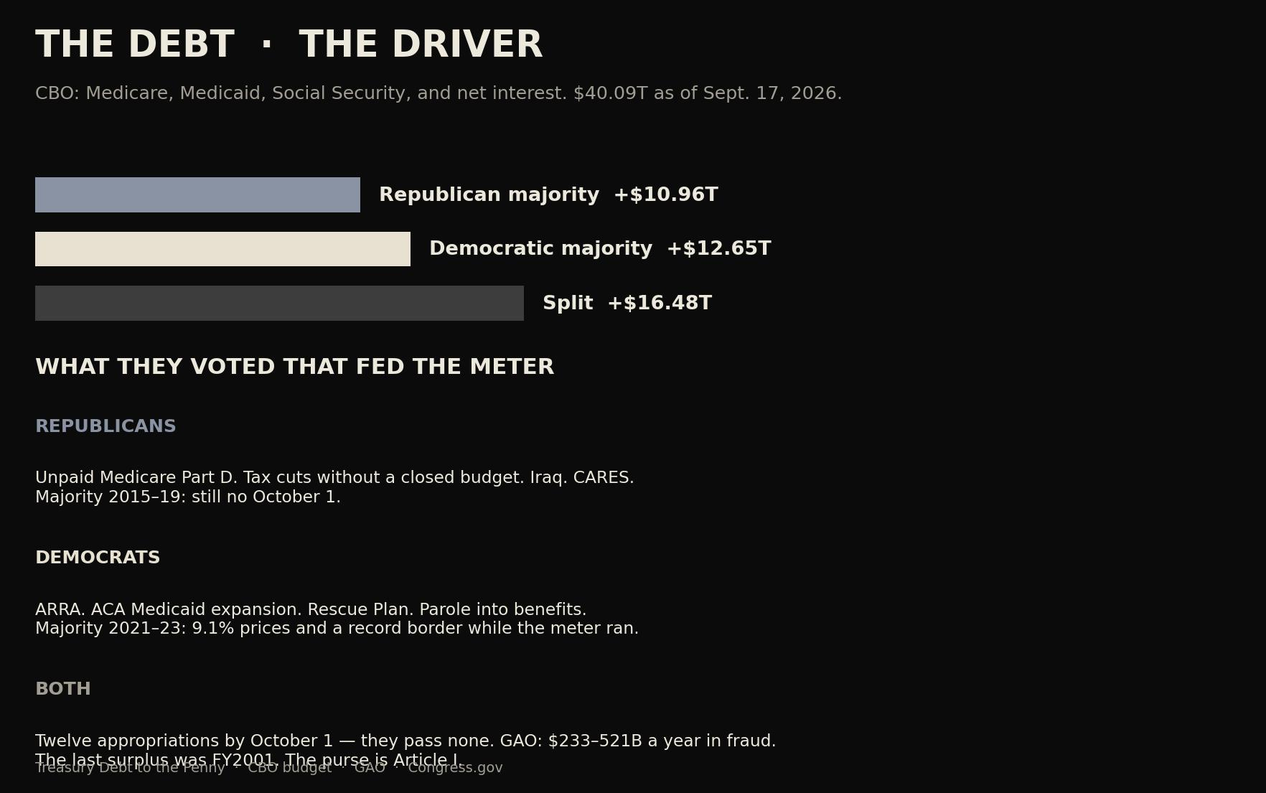
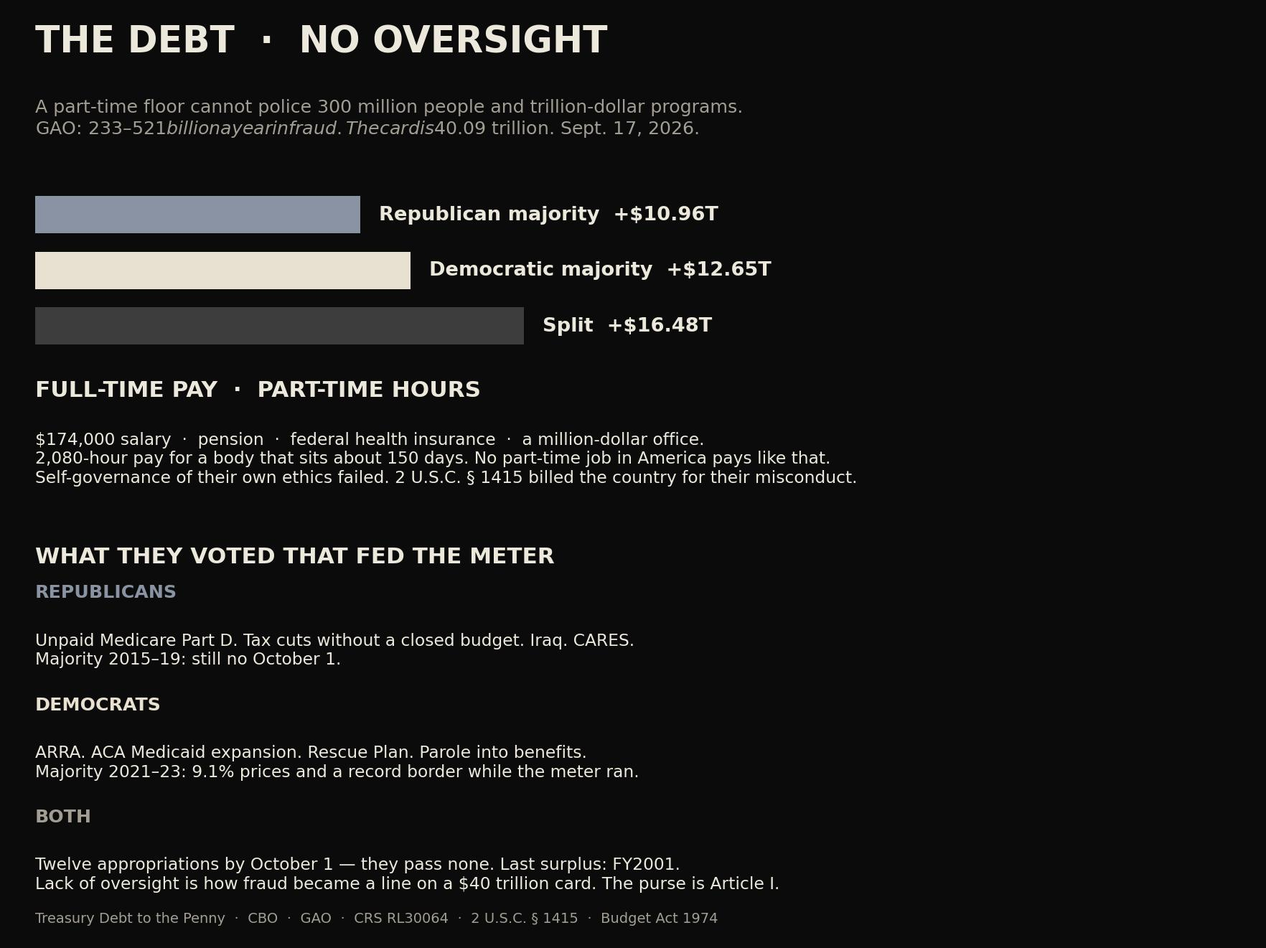
Debt chart: no oversight, GAO fraud, 2080-hour pay for a 150-day floor.

diff --git a/UPLOAD-TO-NAMECHEAP/scorecard.html b/UPLOAD-TO-NAMECHEAP/scorecard.html
@@ -92,7 +92,7 @@ footer .f{max-width:72rem;margin:0 auto;display:flex;justify-content:space-betwe
 <div class="panel" id="gop-charts">
 <p class="btns"><a class="btn" href="#gop-charts">Charts</a><a class="btn out" href="#gop-read">Read</a></p>
 
-<figure><p class="kicker">Policy — success and failure</p><img src="/images/chart-policy.jpg" alt="Policy — success and failure"/><figcaption style="color:#a39e93;font-size:.85rem"><a href="https://www.congress.gov/">Congress.gov</a> · <a href="https://www.bls.gov/news.release/archives/cpi_07132022.htm">BLS — June 2022</a></figcaption></figure><figure><p class="kicker">The debt — the driver, and what each party voted</p><img src="/images/chart-debt-why.jpg" alt="The debt — the driver, and what each party voted"/><figcaption style="color:#a39e93;font-size:.85rem"><a href="https://www.cbo.gov/topics/budget">CBO — budget</a> · <a href="https://fiscaldata.treasury.gov/datasets/debt-to-the-penny/">Treasury — Debt to the Penny</a> · <a href="https://www.gao.gov/products/gao-25-107746">GAO fraud</a></figcaption></figure><figure><p class="kicker">The Oval — encounters and the highest price spike (CPI)</p><img src="/images/chart-oval.jpg" alt="The Oval — encounters and the highest price spike (CPI)"/><figcaption style="color:#a39e93;font-size:.85rem"><a href="https://www.cbp.gov/newsroom/stats/cbp-enforcement-statistics">CBP — enforcement statistics</a> · <a href="https://www.bls.gov/cpi/">BLS — CPI</a> · <a href="https://www.eia.gov/petroleum/gasdiesel/">EIA — the gallon</a></figcaption></figure>
+<figure><p class="kicker">Policy — success and failure</p><img src="/images/chart-policy.jpg" alt="Policy — success and failure"/><figcaption style="color:#a39e93;font-size:.85rem"><a href="https://www.congress.gov/">Congress.gov</a> · <a href="https://www.bls.gov/news.release/archives/cpi_07132022.htm">BLS — June 2022</a></figcaption></figure><figure><p class="kicker">The debt — no oversight, $40 trillion, full-time pay for part-time hours</p><img src="/images/chart-debt-why.jpg" alt="The debt — no oversight, $40 trillion, full-time pay for part-time hours"/><figcaption style="color:#a39e93;font-size:.85rem"><a href="https://www.cbo.gov/topics/budget">CBO — budget</a> · <a href="https://fiscaldata.treasury.gov/datasets/debt-to-the-penny/">Treasury — Debt to the Penny</a> · <a href="https://www.gao.gov/products/gao-25-107746">GAO fraud</a></figcaption></figure><figure><p class="kicker">The Oval — encounters and the highest price spike (CPI)</p><img src="/images/chart-oval.jpg" alt="The Oval — encounters and the highest price spike (CPI)"/><figcaption style="color:#a39e93;font-size:.85rem"><a href="https://www.cbp.gov/newsroom/stats/cbp-enforcement-statistics">CBP — enforcement statistics</a> · <a href="https://www.bls.gov/cpi/">BLS — CPI</a> · <a href="https://www.eia.gov/petroleum/gasdiesel/">EIA — the gallon</a></figcaption></figure>
 </div>
 <div class="panel" id="dem-charts">
 <p class="btns"><a class="btn" href="#dem-charts">Charts</a><a class="btn out" href="#dem-read">Read</a></p>
@@ -102,7 +102,7 @@ footer .f{max-width:72rem;margin:0 auto;display:flex;justify-content:space-betwe
 <div class="panel" id="split-charts">
 <p class="btns"><a class="btn" href="#split-charts">Charts</a><a class="btn out" href="#split-read">Read</a></p>
 
-<figure><p class="kicker">The debt — the driver, and what each party voted</p><img src="/images/chart-debt-why.jpg" alt="The debt — the driver, and what each party voted"/><figcaption style="color:#a39e93;font-size:.85rem"><a href="https://www.cbo.gov/topics/budget">CBO — budget</a> · <a href="https://fiscaldata.treasury.gov/datasets/debt-to-the-penny/">Treasury — Debt to the Penny</a> · <a href="https://www.gao.gov/products/gao-25-107746">GAO fraud</a></figcaption></figure><figure><p class="kicker">The fire is Congress. The blame game is politics.</p><img src="/images/chart-blame.jpg" alt="The fire is Congress. The blame game is politics."/><figcaption style="color:#a39e93;font-size:.85rem"><a href="https://constitution.congress.gov/constitution/article-1/">Article I</a> · <a href="https://www.law.cornell.edu/uscode/text/5/3331">5 U.S.C. § 3331</a> · <a href="https://www.law.cornell.edu/uscode/text/2/1415">2 U.S.C. § 1415</a> · <a href="https://www.cbo.gov/data/budget-economic-data">CBO</a></figcaption></figure>
+<figure><p class="kicker">The debt — no oversight, $40 trillion, full-time pay for part-time hours</p><img src="/images/chart-debt-why.jpg" alt="The debt — no oversight, $40 trillion, full-time pay for part-time hours"/><figcaption style="color:#a39e93;font-size:.85rem"><a href="https://www.cbo.gov/topics/budget">CBO — budget</a> · <a href="https://fiscaldata.treasury.gov/datasets/debt-to-the-penny/">Treasury — Debt to the Penny</a> · <a href="https://www.gao.gov/products/gao-25-107746">GAO fraud</a></figcaption></figure><figure><p class="kicker">The fire is Congress. The blame game is politics.</p><img src="/images/chart-blame.jpg" alt="The fire is Congress. The blame game is politics."/><figcaption style="color:#a39e93;font-size:.85rem"><a href="https://constitution.congress.gov/constitution/article-1/">Article I</a> · <a href="https://www.law.cornell.edu/uscode/text/5/3331">5 U.S.C. § 3331</a> · <a href="https://www.law.cornell.edu/uscode/text/2/1415">2 U.S.C. § 1415</a> · <a href="https://www.cbo.gov/data/budget-economic-data">CBO</a></figcaption></figure>
 </div>
 <div class="panel" id="oval-charts">
 <p class="btns"><a class="btn" href="#oval-charts">Charts</a><a class="btn out" href="#oval-read">Read</a></p>
@@ -112,7 +112,7 @@ footer .f{max-width:72rem;margin:0 auto;display:flex;justify-content:space-betwe
 <div class="panel" id="compare-charts">
 <p class="btns"><a class="btn" href="#compare-charts">Charts</a><a class="btn out" href="#compare-read">Read</a></p>
 
-<figure><p class="kicker">The Oval — encounters and the highest price spike (CPI)</p><img src="/images/chart-oval.jpg" alt="The Oval — encounters and the highest price spike (CPI)"/><figcaption style="color:#a39e93;font-size:.85rem"><a href="https://www.cbp.gov/newsroom/stats/cbp-enforcement-statistics">CBP — enforcement statistics</a> · <a href="https://www.bls.gov/cpi/">BLS — CPI</a> · <a href="https://www.eia.gov/petroleum/gasdiesel/">EIA — the gallon</a></figcaption></figure><figure><p class="kicker">Policy — success and failure</p><img src="/images/chart-policy.jpg" alt="Policy — success and failure"/><figcaption style="color:#a39e93;font-size:.85rem"><a href="https://www.congress.gov/">Congress.gov</a> · <a href="https://www.bls.gov/news.release/archives/cpi_07132022.htm">BLS — June 2022</a></figcaption></figure><figure><p class="kicker">The debt — the driver, and what each party voted</p><img src="/images/chart-debt-why.jpg" alt="The debt — the driver, and what each party voted"/><figcaption style="color:#a39e93;font-size:.85rem"><a href="https://www.cbo.gov/topics/budget">CBO — budget</a> · <a href="https://fiscaldata.treasury.gov/datasets/debt-to-the-penny/">Treasury — Debt to the Penny</a> · <a href="https://www.gao.gov/products/gao-25-107746">GAO fraud</a></figcaption></figure><figure><p class="kicker">The invasion bill — taxpayer cost and the eligibility doors</p><img src="/images/chart-aliens.jpg" alt="The invasion bill — taxpayer cost and the eligibility doors"/><figcaption style="color:#a39e93;font-size:.85rem"><a href="https://www.cbp.gov/newsroom/stats/nationwide-encounters">CBP nationwide</a> · <a href="https://www.cbo.gov/publication/61256">CBO 61256</a> · <a href="https://www.cbo.gov/publication/60805">CBO 60805</a> · <a href="https://www.law.cornell.edu/uscode/text/8/1611">8 U.S.C. § 1611</a></figcaption></figure><figure><p class="kicker">The open border — by administration</p><img src="/images/chart-border.jpg" alt="The open border — by administration"/><figcaption style="color:#a39e93;font-size:.85rem"><a href="https://www.cbp.gov/newsroom/stats/southwest-land-border-encounters">CBP — southwest encounters</a> · <a href="https://www.cbo.gov/publication/61256">CBO — 2023 state and local cost</a></figcaption></figure><figure><p class="kicker">Actual inflation — who held Congress</p><img src="/images/chart-inflation-party.jpg" alt="Actual inflation — who held Congress"/><figcaption style="color:#a39e93;font-size:.85rem"><a href="https://www.bls.gov/cpi/">BLS CPI-U</a> · <a href="https://www.bls.gov/news.release/archives/cpi_07132022.htm">9.1% — June 2022</a> · <a href="https://www.bls.gov/news.release/cpi.nr0.htm">BLS live — August 2026, 3.4%</a> · <a href="https://fred.stlouisfed.org/graph/?id=CPIAUCSL&units=pc1">FRED — 12-month CPI</a></figcaption></figure><figure><p class="kicker">Crime — murder rate by administration</p><img src="/images/chart-crime.jpg" alt="Crime — murder rate by administration"/><figcaption style="color:#a39e93;font-size:.85rem"><a href="https://www.fbi.gov/news/stories/violent-crime-falls-at-historic-rate-new-fbi-data-show">FBI — violent crime 2025</a> · <a href="https://bjs.ojp.gov/document/ckle24.pdf">BJS — Crime Known to Law Enforcement, 2024</a></figcaption></figure><figure><p class="kicker">The gallon — four administrations</p><img src="/images/chart-pump-admins.jpg" alt="The gallon — four administrations"/><figcaption style="color:#a39e93;font-size:.85rem"><a href="https://www.eia.gov/petroleum/gasdiesel/">EIA</a> · <a href="https://fred.stlouisfed.org/series/GASREGW">FRED GASREGW</a></figcaption></figure>
+<figure><p class="kicker">The Oval — encounters and the highest price spike (CPI)</p><img src="/images/chart-oval.jpg" alt="The Oval — encounters and the highest price spike (CPI)"/><figcaption style="color:#a39e93;font-size:.85rem"><a href="https://www.cbp.gov/newsroom/stats/cbp-enforcement-statistics">CBP — enforcement statistics</a> · <a href="https://www.bls.gov/cpi/">BLS — CPI</a> · <a href="https://www.eia.gov/petroleum/gasdiesel/">EIA — the gallon</a></figcaption></figure><figure><p class="kicker">Policy — success and failure</p><img src="/images/chart-policy.jpg" alt="Policy — success and failure"/><figcaption style="color:#a39e93;font-size:.85rem"><a href="https://www.congress.gov/">Congress.gov</a> · <a href="https://www.bls.gov/news.release/archives/cpi_07132022.htm">BLS — June 2022</a></figcaption></figure><figure><p class="kicker">The debt — no oversight, $40 trillion, full-time pay for part-time hours</p><img src="/images/chart-debt-why.jpg" alt="The debt — no oversight, $40 trillion, full-time pay for part-time hours"/><figcaption style="color:#a39e93;font-size:.85rem"><a href="https://www.cbo.gov/topics/budget">CBO — budget</a> · <a href="https://fiscaldata.treasury.gov/datasets/debt-to-the-penny/">Treasury — Debt to the Penny</a> · <a href="https://www.gao.gov/products/gao-25-107746">GAO fraud</a></figcaption></figure><figure><p class="kicker">The invasion bill — taxpayer cost and the eligibility doors</p><img src="/images/chart-aliens.jpg" alt="The invasion bill — taxpayer cost and the eligibility doors"/><figcaption style="color:#a39e93;font-size:.85rem"><a href="https://www.cbp.gov/newsroom/stats/nationwide-encounters">CBP nationwide</a> · <a href="https://www.cbo.gov/publication/61256">CBO 61256</a> · <a href="https://www.cbo.gov/publication/60805">CBO 60805</a> · <a href="https://www.law.cornell.edu/uscode/text/8/1611">8 U.S.C. § 1611</a></figcaption></figure><figure><p class="kicker">The open border — by administration</p><img src="/images/chart-border.jpg" alt="The open border — by administration"/><figcaption style="color:#a39e93;font-size:.85rem"><a href="https://www.cbp.gov/newsroom/stats/southwest-land-border-encounters">CBP — southwest encounters</a> · <a href="https://www.cbo.gov/publication/61256">CBO — 2023 state and local cost</a></figcaption></figure><figure><p class="kicker">Actual inflation — who held Congress</p><img src="/images/chart-inflation-party.jpg" alt="Actual inflation — who held Congress"/><figcaption style="color:#a39e93;font-size:.85rem"><a href="https://www.bls.gov/cpi/">BLS CPI-U</a> · <a href="https://www.bls.gov/news.release/archives/cpi_07132022.htm">9.1% — June 2022</a> · <a href="https://www.bls.gov/news.release/cpi.nr0.htm">BLS live — August 2026, 3.4%</a> · <a href="https://fred.stlouisfed.org/graph/?id=CPIAUCSL&units=pc1">FRED — 12-month CPI</a></figcaption></figure><figure><p class="kicker">Crime — murder rate by administration</p><img src="/images/chart-crime.jpg" alt="Crime — murder rate by administration"/><figcaption style="color:#a39e93;font-size:.85rem"><a href="https://www.fbi.gov/news/stories/violent-crime-falls-at-historic-rate-new-fbi-data-show">FBI — violent crime 2025</a> · <a href="https://bjs.ojp.gov/document/ckle24.pdf">BJS — Crime Known to Law Enforcement, 2024</a></figcaption></figure><figure><p class="kicker">The gallon — four administrations</p><img src="/images/chart-pump-admins.jpg" alt="The gallon — four administrations"/><figcaption style="color:#a39e93;font-size:.85rem"><a href="https://www.eia.gov/petroleum/gasdiesel/">EIA</a> · <a href="https://fred.stlouisfed.org/series/GASREGW">FRED GASREGW</a></figcaption></figure>
 </div>
 <div class="panel" id="gop-read">
 <p class="btns"><a class="btn out" href="#gop-charts">Charts</a><a class="btn" href="#gop-read">Read</a></p>
@@ -184,6 +184,13 @@ footer .f{max-width:72rem;margin:0 auto;display:flex;justify-content:space-betwe
 <div class="grid"><a class="card" href="https://www.congress.gov/bill/115th-congress/house-bill/1" style="padding:1.2rem"><h3>Republican majority — House and Senate</h3><p>1995–2001 · 2003–07 · 2015–19 · 2025–now</p><p>They could pass a spending bill without Democrats.</p><p>Tax cuts. Iraq. Unpaid drug benefit. Border down this term. Debt still up.</p></a><a class="card" href="https://www.congress.gov/bill/111th-congress/house-bill/3590" style="padding:1.2rem"><h3>Democratic majority — House and Senate</h3><p>1993–95 · 2007–11 · 2021–23</p><p>They could pass a spending bill without Republicans.</p><p>Raised taxes. Passed ObamaCare. Prices hit 9.1% in 2022. Record border crossings. The debt still went up.</p></a><a class="card" href="https://fiscaldata.treasury.gov/datasets/debt-to-the-penny/" style="padding:1.2rem"><h3>They split — one house each</h3><p>Most other years. Nixon. Bush 41. 2011–15. COVID. 2023–25.</p><p>Neither party could spend alone. They still spent.</p><p>A Republican president with a Democratic Congress is not an excuse. Nixon: Republican in the White House, Democrats ran Congress, the debt still rose. The $40 trillion is both of them.</p></a></div>
 <div class="grid"><a class="card" href="https://fiscaldata.treasury.gov/datasets/historical-debt-outstanding/" style="padding:1.2rem"><p class="kicker">Republican majority — House and Senate</p><h3>+$10.96 trillion</h3><div style="height:10px;background:#141414;margin-top:.8rem"><div style="height:10px;width:27%;background:#e8e0d0"></div></div><p>27% of the $40.09T</p><p>1861–75 · 1881–83 · 1889–91 · 1895–1911 · 1919–31 · 1947–49 · 1953–55 · 1995–2001 · 2003–07 · 2015–19 · 2025–now</p></a><a class="card" href="https://fiscaldata.treasury.gov/datasets/historical-debt-outstanding/" style="padding:1.2rem"><p class="kicker">Democratic majority — House and Senate</p><h3>+$12.65 trillion</h3><div style="height:10px;background:#141414;margin-top:.8rem"><div style="height:10px;width:32%;background:#e8e0d0"></div></div><p>32% of the $40.09T</p><p>1857–59 · 1875–81 · 1893–95 · 1913–19 · 1933–47 · 1949–53 · 1955–81 · 1987–95 · 2007–11 · 2021–23</p></a><a class="card" href="https://fiscaldata.treasury.gov/datasets/historical-debt-outstanding/" style="padding:1.2rem"><p class="kicker">Split — one chamber each</p><h3>+$16.48 trillion</h3><div style="height:10px;background:#141414;margin-top:.8rem"><div style="height:10px;width:41%;background:#e8e0d0"></div></div><p>41% of the $40.09T</p><p>Every other year since 1857 — one house each</p></a></div>
 <p>September 17, 2026: $40.09 trillion. $10.96 + $12.65 + $16.48 = $40.09. Before 1857 the two parties did not yet run the modern Congress. The debt then was $29 million.</p>
+<figure><img src="/images/chart-debt-why.jpg" alt="The debt — no oversight"/></figure>
+<p class="kicker">No oversight. A $40 trillion card. Full-time pay for a part-time floor.</p>
+<p>CBO’s long-term outlook: the meter is Medicare, Medicaid, Social Security, and net interest. Wars and tax bills are real. They are not the largest line. Both parties voted the expansions. Neither locked the door. Neither passes twelve appropriations by October 1. GAO: $233–521 billion a year in fraud and improper payments. That is what a part-time schedule does to a country of more than 300 million people. Lack of oversight is how fraud became a line on a $40.09 trillion card.</p>
+<p>A rank-and-file member is paid $174,000 a year — CRS RL30064 — plus a pension, Federal Employees Health Benefits, and a million-dollar office allowance. That is 2,080-hour, full-time pay. The House sits on the order of 150 legislative days. No part-time job in America pays like that. Self-governance of their own ethics has failed: 2 U.S.C. § 1415 billed the country for congressional misconduct. Full time, or the perks stop.</p>
+<p>Republicans: Unpaid Medicare Part D. Tax cuts without a closed budget. Iraq. CARES. Majority 2015–19: still no October 1.</p>
+<p>Democrats: ARRA. ACA Medicaid expansion. Rescue Plan. Parole into benefits. Majority 2021–23: 9.1% prices and a record border while the meter ran.</p>
+<p><a href="https://www.congress.gov/crs-product/RL30064">CRS — member pay →</a> · <a href="https://www.law.cornell.edu/uscode/text/2/1415">2 U.S.C. § 1415 →</a> · <a href="https://www.gao.gov/products/gao-25-107746">GAO fraud →</a></p>
 <figure><img src="/images/chart-policy.jpg" alt="Policy — success and failure"/></figure>
 <h2>Obama, first term · 2009–13</h2><p>Democratic majority, House and Senate, January 2009–January 2011. Then a Republican House. Split.</p><p class="kicker">Helped</p><ul><li><a href="https://www.congress.gov/bill/111th-congress/senate-bill/181"><strong>Lilly Ledbetter Fair Pay Act.</strong><br/>S. 181 · 2009</a></li><li><a href="https://www.congress.gov/bill/111th-congress/house-bill/2"><strong>CHIP reauthorized.</strong><br/>H.R. 2 · 2009</a></li></ul><p class="kicker">Hurt</p><ul><li><a href="https://www.congress.gov/bill/111th-congress/house-bill/1"><strong>Stimulus after the crash. The meter jumped.</strong><br/>H.R. 1 · ARRA · 2009</a></li><li><a href="https://www.congress.gov/bill/111th-congress/house-bill/3590"><strong>ObamaCare: new taxes and a mandate, Democratic majority, 2010.</strong><br/>H.R. 3590 · 2010</a></li><li><a href="https://www.bls.gov/news.release/archives/cpi_10192011.htm"><strong>CPI 3.9%, September 2011. Split Congress. Obama Oval.</strong><br/>BLS CPI · September 2011</a></li></ul><h2>Obama, second term · 2013–17</h2><p>Split until January 2015. Republican majority, House and Senate, 2015–17. The Oval was still Obama. The purse was not.</p><p class="kicker">Helped</p><ul><li><a href="https://www.bls.gov/cpi/"><strong>CPI stayed low after 2011. No 9% spike in this term.</strong><br/>BLS CPI</a></li></ul><p class="kicker">Hurt</p><ul><li><a href="https://www.uscis.gov/humanitarian/consideration-of-deferred-action-for-childhood-arrivals-daca"><strong>DACA, June 15, 2012, carried through the second term. A memo. Not a vote.</strong><br/>DHS / USCIS</a></li><li><a href="https://www.cbp.gov/document/stats/us-border-patrol-fiscal-year-southwest-border-sector-apprehensions-fy-1960-fy-2019"><strong>Southwest Border Patrol, eight fiscal years: 3.31 million. FY2014 unaccompanied-child spike sat in this Oval.</strong><br/>CBP · FY1960–2019</a></li><li><a href="https://fiscaldata.treasury.gov/datasets/historical-debt-outstanding/"><strong>Republican majority 2015–17 did not close October 1. Debt still climbed on a Republican purse and a Democratic Oval.</strong><br/>Treasury</a></li></ul>
 <div class="grid"><a class="card" href="https://constitution.congress.gov/constitution/article-1/" style="padding:1rem"><h3 style="padding:0">Article I — the purse</h3></a><a class="card" href="https://constitution.congress.gov/constitution/article-6/" style="padding:1rem"><h3 style="padding:0">Article VI — supremacy</h3></a><a class="card" href="https://www.law.cornell.edu/uscode/text/5/3331" style="padding:1rem"><h3 style="padding:0">The oath — 5 U.S.C. § 3331</h3></a><a class="card" href="https://www.congress.gov/bill/93rd-congress/house-bill/7130" style="padding:1rem"><h3 style="padding:0">Budget Act — twelve bills by October 1</h3></a><a class="card" href="https://www.gao.gov/products/gao-25-107746" style="padding:1rem"><h3 style="padding:0">GAO — fraud $233–521B a year</h3></a><a class="card" href="https://fiscaldata.treasury.gov/datasets/debt-to-the-penny/" style="padding:1rem"><h3 style="padding:0">Treasury — debt to the penny</h3></a><a class="card" href="https://www.law.cornell.edu/uscode/text/8/1324" style="padding:1rem"><h3 style="padding:0">8 U.S.C. § 1324 — harboring</h3></a><a class="card" href="https://www.law.cornell.edu/uscode/text/8/1373" style="padding:1rem"><h3 style="padding:0">8 U.S.C. § 1373 — no gag on ICE</h3></a><a class="card" href="https://www.law.cornell.edu/uscode/text/8/1611" style="padding:1rem"><h3 style="padding:0">8 U.S.C. § 1611 — federal benefits</h3></a><a class="card" href="https://www.law.cornell.edu/uscode/text/2/1415" style="padding:1rem"><h3 style="padding:0">2 U.S.C. § 1415 — they billed you for their misconduct</h3></a><a class="card" href="https://www.law.cornell.edu/uscode/text/18/2383" style="padding:1rem"><h3 style="padding:0">18 U.S.C. § 2383 — insurrection</h3></a></div>

diff --git a/src/lib/scorecard.ts b/src/lib/scorecard.ts
@@ -938,11 +938,14 @@ export const DRIVERS: { k: string; v: string; href: string }[] = [
 
 /** CBO’s long-term file. One chart. Who added, and why the meter runs. */
 export const DEBT_WHY = {
-  k: "What actually drives the $40.09 trillion",
-  v: "CBO’s long-term outlook: the meter is Medicare, Medicaid, Social Security, and net interest. Wars and tax bills are real. They are not the largest line. Both parties voted the expansions. Neither locked the door. Neither passes twelve appropriations by October 1.",
-  href: "https://www.cbo.gov/topics/budget",
+  k: "No oversight. A $40 trillion card. Full-time pay for a part-time floor.",
+  v: "CBO’s long-term outlook: the meter is Medicare, Medicaid, Social Security, and net interest. Wars and tax bills are real. They are not the largest line. Both parties voted the expansions. Neither locked the door. Neither passes twelve appropriations by October 1. GAO: $233–521 billion a year in fraud and improper payments. That is what a part-time schedule does to a country of more than 300 million people. Lack of oversight is how fraud became a line on a $40.09 trillion card.",
+  href: "https://www.gao.gov/products/gao-25-107746",
   gop: "Unpaid Medicare Part D. Tax cuts without a closed budget. Iraq. CARES. Majority 2015–19: still no October 1.",
   dem: "ARRA. ACA Medicaid expansion. Rescue Plan. Parole into benefits. Majority 2021–23: 9.1% prices and a record border while the meter ran.",
+  pay: "A rank-and-file member is paid $174,000 a year — CRS RL30064 — plus a pension, Federal Employees Health Benefits, and a million-dollar office allowance. That is 2,080-hour, full-time pay. The House sits on the order of 150 legislative days. No part-time job in America pays like that. Self-governance of their own ethics has failed: 2 U.S.C. § 1415 billed the country for congressional misconduct. Full time, or the perks stop.",
+  payHref: "https://www.congress.gov/crs-product/RL30064",
+  ethicsHref: "https://www.law.cornell.edu/uscode/text/2/1415",
 };
 
 /** The invasion bill. Official costs. The doors Democrats opened. */
@@ -1110,7 +1113,7 @@ export const CHARTS: {
   },
   {
     src: "/images/chart-debt-why.jpg",
-    title: "The debt — the driver, and what each party voted",
+    title: "The debt — no oversight, $40 trillion, full-time pay for part-time hours",
     sources: [
       { label: "CBO — budget", href: "https://www.cbo.gov/topics/budget" },
       { label: "Treasury — Debt to the Penny", href: "https://fiscaldata.treasury.gov/datasets/debt-to-the-penny/" },

diff --git a/src/components/midterm-scorecard.tsx b/src/components/midterm-scorecard.tsx
@@ -775,11 +775,40 @@ export function MidtermScorecard() {
               />
             </figure>
             <p className="text-base leading-relaxed">{DEBT_WHY.v}</p>
+            <p className="text-sm leading-relaxed">{DEBT_WHY.pay}</p>
             <p className="text-sm leading-relaxed">
               Republicans: {DEBT_WHY.gop}
             </p>
             <p className="text-sm leading-relaxed">
               Democrats: {DEBT_WHY.dem}
+            </p>
+            <p>
+              <a
+                href={DEBT_WHY.payHref}
+                target="_blank"
+                rel="noreferrer"
+                className="font-display text-xs font-semibold tracking-wide text-sage uppercase no-underline hover:text-fg"
+              >
+                CRS — member pay →
+              </a>
+              {" · "}
+              <a
+                href={DEBT_WHY.ethicsHref}
+                target="_blank"
+                rel="noreferrer"
+                className="font-display text-xs font-semibold tracking-wide text-sage uppercase no-underline hover:text-fg"
+              >
+                2 U.S.C. § 1415 →
+              </a>
+              {" · "}
+              <a
+                href={DEBT_WHY.href}
+                target="_blank"
+                rel="noreferrer"
+                className="font-display text-xs font-semibold tracking-wide text-sage uppercase no-underline hover:text-fg"
+              >
+                GAO fraud →
+              </a>
             </p>
             {OBAMA_TERMS.map((term) => (
               <div key={term.who} className="rounded-md border border-border bg-surface p-5">

diff --git a/scripts/make-party-charts.py b/scripts/make-party-charts.py
@@ -546,29 +546,71 @@ fig.tight_layout(rect=(0, 0.06, 1, 0.92))
 fig.savefig("/workspace/public/images/chart-oval.jpg", dpi=140, facecolor=bg, bbox_inches="tight")
 plt.close()
 
-# One debt chart: the driver, and what each party voted
-fig, ax = plt.subplots(figsize=(16, 10), dpi=140, facecolor=bg)
+# One debt chart: the driver, fraud from no oversight, full-time pay for part-time hours
+fig, ax = plt.subplots(figsize=(16, 12), dpi=140, facecolor=bg)
 ax.set_facecolor(bg)
 ax.set_xlim(0, 10)
-ax.set_ylim(0, 10)
+ax.set_ylim(0, 12)
 ax.axis("off")
-ax.text(0.2, 9.4, "THE DEBT  ·  THE DRIVER", fontsize=26, fontweight="bold", color=fg)
-ax.text(0.2, 8.85, "CBO: Medicare, Medicaid, Social Security, and net interest. $40.09T as of Sept. 17, 2026.", fontsize=13, color=muted)
-# three who-added bars
+ax.text(0.2, 11.45, "THE DEBT  ·  NO OVERSIGHT", fontsize=26, fontweight="bold", color=fg)
+ax.text(
+    0.2,
+    10.85,
+    "A part-time floor cannot police 300 million people and trillion-dollar programs.\nGAO: $233–521 billion a year in fraud. The card is $40.09 trillion. Sept. 17, 2026.",
+    fontsize=13,
+    color=muted,
+    va="top",
+)
 who = [("Republican majority", 10.96, gop_c), ("Democratic majority", 12.65, biden_c), ("Split", 16.48, split_c)]
-y0 = 7.6
+y0 = 9.35
 for i, (lab, v, c) in enumerate(who):
-    y = y0 - i * 0.7
-    ax.barh(y, v / 4.2, height=0.45, color=c, left=0.2)
+    y = y0 - i * 0.72
+    ax.barh(y, v / 4.2, height=0.48, color=c, left=0.2)
     ax.text(0.2 + v / 4.2 + 0.15, y, f"{lab}  +${v:.2f}T", va="center", fontsize=14, fontweight="bold", color=fg)
-ax.text(0.2, 5.3, "WHAT THEY VOTED THAT FED THE METER", fontsize=16, fontweight="bold", color=fg)
-ax.text(0.2, 4.55, "REPUBLICANS", fontsize=13, fontweight="bold", color=gop_c)
-ax.text(0.2, 4.05, "Unpaid Medicare Part D. Tax cuts without a closed budget. Iraq. CARES.\nMajority 2015–19: still no October 1.", fontsize=12, color=fg, va="top")
-ax.text(0.2, 2.85, "DEMOCRATS", fontsize=13, fontweight="bold", color=biden_c)
-ax.text(0.2, 2.35, "ARRA. ACA Medicaid expansion. Rescue Plan. Parole into benefits.\nMajority 2021–23: 9.1% prices and a record border while the meter ran.", fontsize=12, color=fg, va="top")
-ax.text(0.2, 1.15, "BOTH", fontsize=13, fontweight="bold", color=muted)
-ax.text(0.2, 0.65, "Twelve appropriations by October 1 — they pass none. GAO: $233–521B a year in fraud.\nThe last surplus was FY2001. The purse is Article I.", fontsize=12, color=fg, va="top")
-ax.text(0.2, 0.15, "Treasury Debt to the Penny  ·  CBO budget  ·  GAO  ·  Congress.gov", fontsize=10, color=muted)
+ax.text(0.2, 7.0, "FULL-TIME PAY  ·  PART-TIME HOURS", fontsize=16, fontweight="bold", color=fg)
+ax.text(
+    0.2,
+    6.55,
+    "$174,000 salary  ·  pension  ·  federal health insurance  ·  a million-dollar office.\n2,080-hour pay for a body that sits about 150 days. No part-time job in America pays like that.\nSelf-governance of their own ethics failed. 2 U.S.C. § 1415 billed the country for their misconduct.",
+    fontsize=12,
+    color=fg,
+    va="top",
+)
+ax.text(0.2, 4.85, "WHAT THEY VOTED THAT FED THE METER", fontsize=16, fontweight="bold", color=fg)
+ax.text(0.2, 4.4, "REPUBLICANS", fontsize=13, fontweight="bold", color=gop_c)
+ax.text(
+    0.2,
+    3.95,
+    "Unpaid Medicare Part D. Tax cuts without a closed budget. Iraq. CARES.\nMajority 2015–19: still no October 1.",
+    fontsize=12,
+    color=fg,
+    va="top",
+)
+ax.text(0.2, 2.95, "DEMOCRATS", fontsize=13, fontweight="bold", color=biden_c)
+ax.text(
+    0.2,
+    2.5,
+    "ARRA. ACA Medicaid expansion. Rescue Plan. Parole into benefits.\nMajority 2021–23: 9.1% prices and a record border while the meter ran.",
+    fontsize=12,
+    color=fg,
+    va="top",
+)
+ax.text(0.2, 1.5, "BOTH", fontsize=13, fontweight="bold", color=muted)
+ax.text(
+    0.2,
+    1.05,
+    "Twelve appropriations by October 1 — they pass none. Last surplus: FY2001.\nLack of oversight is how fraud became a line on a $40 trillion card. The purse is Article I.",
+    fontsize=12,
+    color=fg,
+    va="top",
+)
+ax.text(
+    0.2,
+    0.2,
+    "Treasury Debt to the Penny  ·  CBO  ·  GAO  ·  CRS RL30064  ·  2 U.S.C. § 1415  ·  Budget Act 1974",
+    fontsize=10,
+    color=muted,
+)
 fig.savefig("/workspace/public/images/chart-debt-why.jpg", dpi=140, facecolor=bg, bbox_inches="tight")
 plt.close()
 
